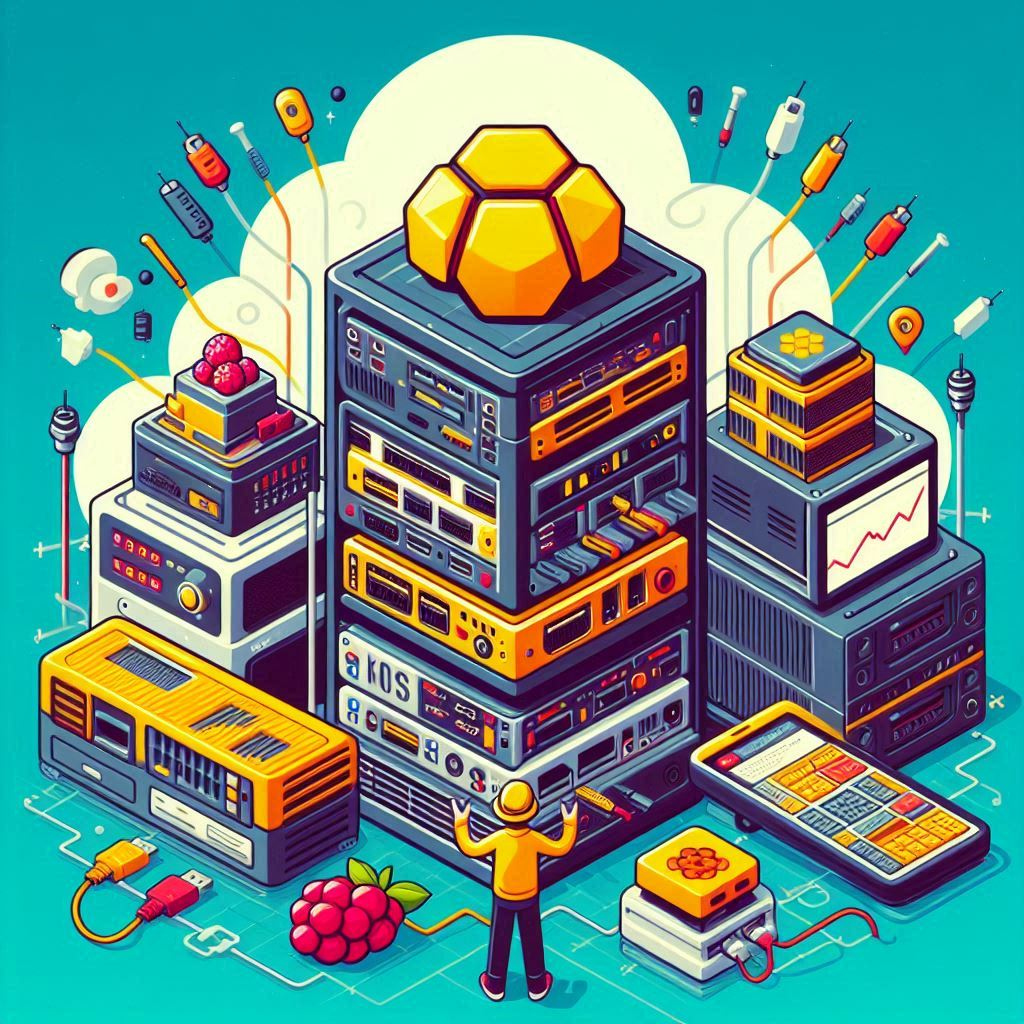
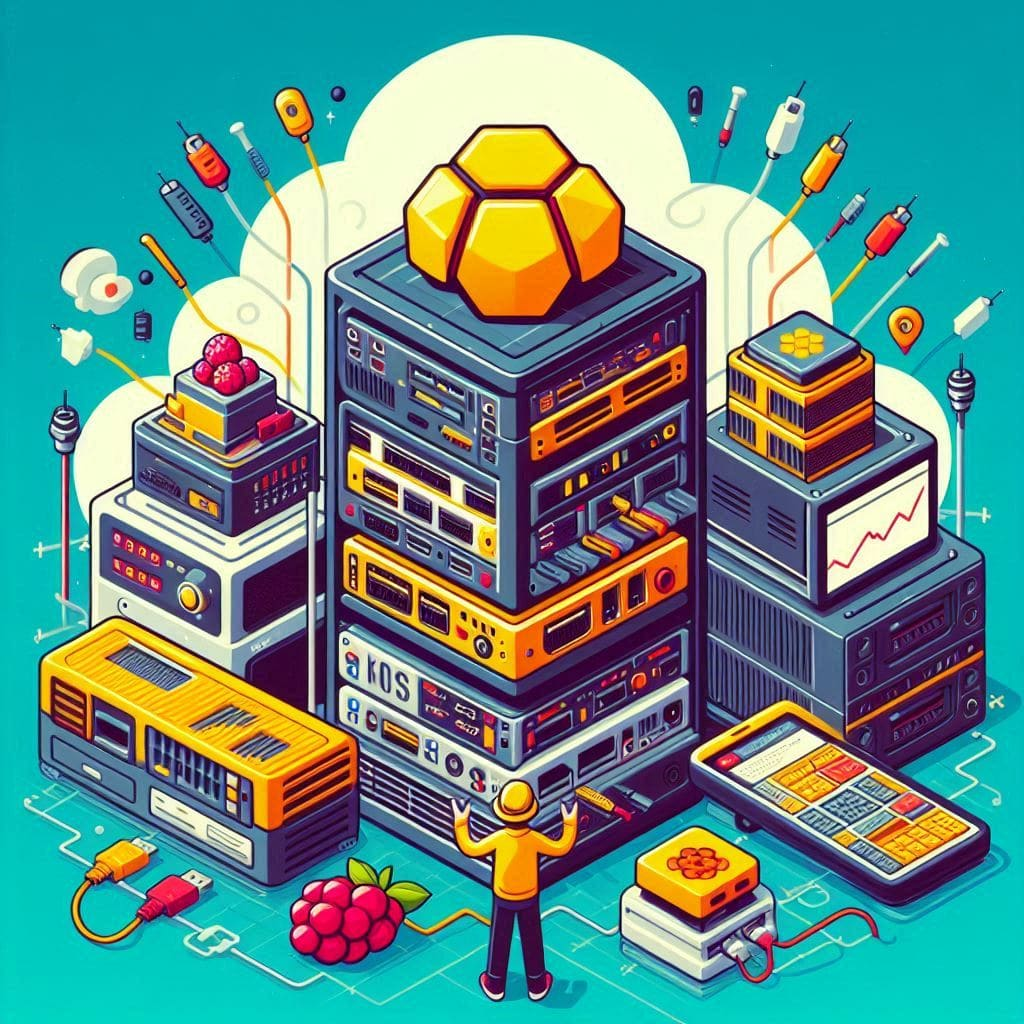
Minify images and last round of  fixes

diff --git a/content/posts/k3s-raspberry-pi-worker/index.md b/content/posts/k3s-raspberry-pi-worker/index.md
@@ -122,14 +122,15 @@ pi-node-01            Ready    control-plane,master   20m   v1.29.5+k3s1
 pi-node-02            Ready    <none>                 20s   v1.29.5+k3s1
 ```
 
-If you are like me and want to change the `<none>` role to correctly be a worker, we can run the following command:
+If you want to change the role from `<none>` to `worker`, we need to add a label to the node, that can achieved via the following command:
 
 ```sh
 kubectl label node pi-node-02 kubernetes.io/role=worker
 ```
 
 {{<alert>}}
-Please note that's not possible to specify the label `kubernetes.io/role=worker` at K3s installation time using the parameter `--node-label` Installation will result in an error, thus we have to manually label the node after the installation
+Please note that's not possible to specify the label `kubernetes.io/role=worker` at K3s installation time using the parameter `--node-label`.
+The installation will result in an error, thus we have to manually label the node after the installation
 {{</alert>}}
 
 ## Lens Metrics
@@ -138,9 +139,7 @@ If you're using [Lens](https://k8slens.dev/), the Kubernetes GUI, you can config
 
 {{<figure src="lens.png" alt="Lens cluster metrics" caption="*The cluster metrics displayed by Lens*" nozoom=true >}}
 
-1. Installing Prometheus
-1. Configure lens metrics to use Helm
-1. Specify the Prometheus service address
+1. Install Prometheus with the following commands
 
 ```sh
 helm repo add prometheus-community https://prometheus-community.github.io/helm-charts
@@ -148,7 +147,13 @@ helm repo update
 helm install prometheus prometheus-community/prometheus --namespace monitoring --create-namespace
 ```
 
-In Lens, from the catalog, go to the cluster setting -> Metrics and set the Prometheus service address to `monitoring/prometheus-server:80`
+1. Configure lens metrics to use Helm
+1. Specify the Prometheus service address
+
+In Lens, from the catalog, go to the cluster setting -> Metrics and set the Prometheus service address to `monitoring/prometheus-server:80` as shown below:
+
+
+{{<figure src="lens-metrics-config.png" alt="Lens cluster metrics configuration" caption="*The cluster metrics configuration in Lens*" nozoom=true >}}
 
 ## Conclusions
 
